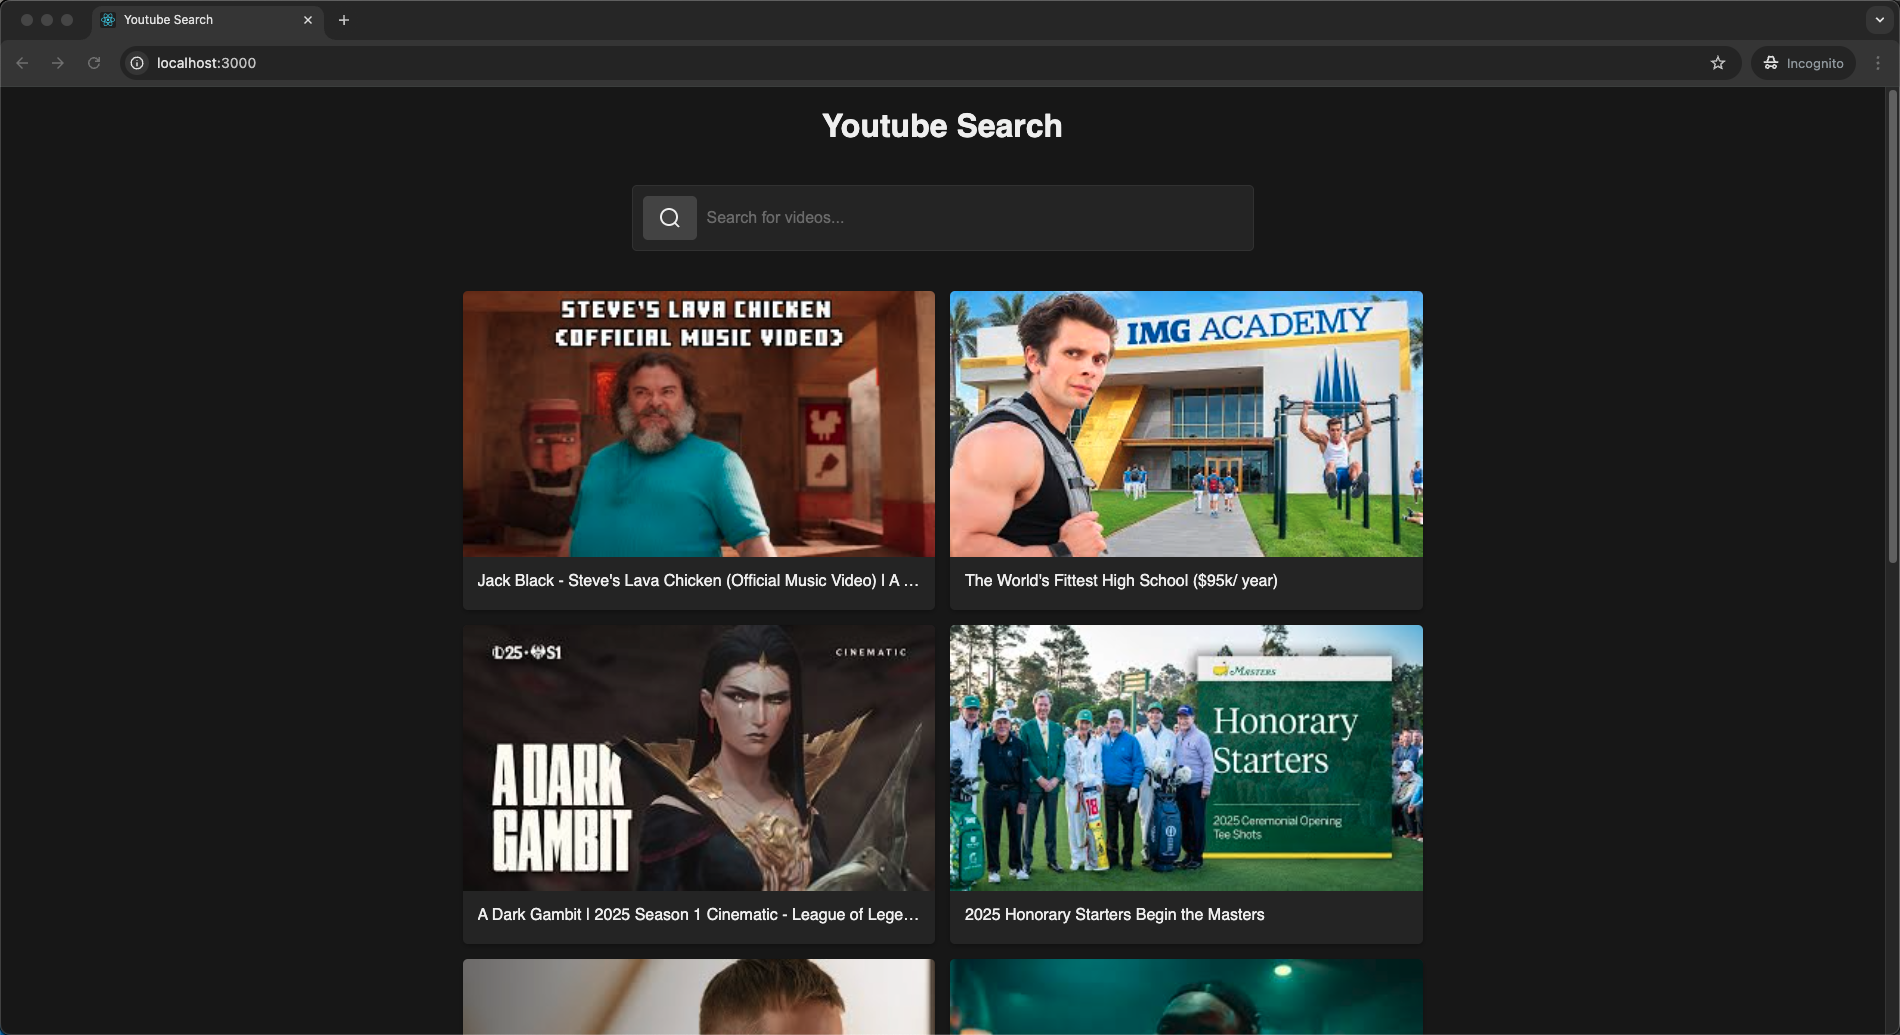
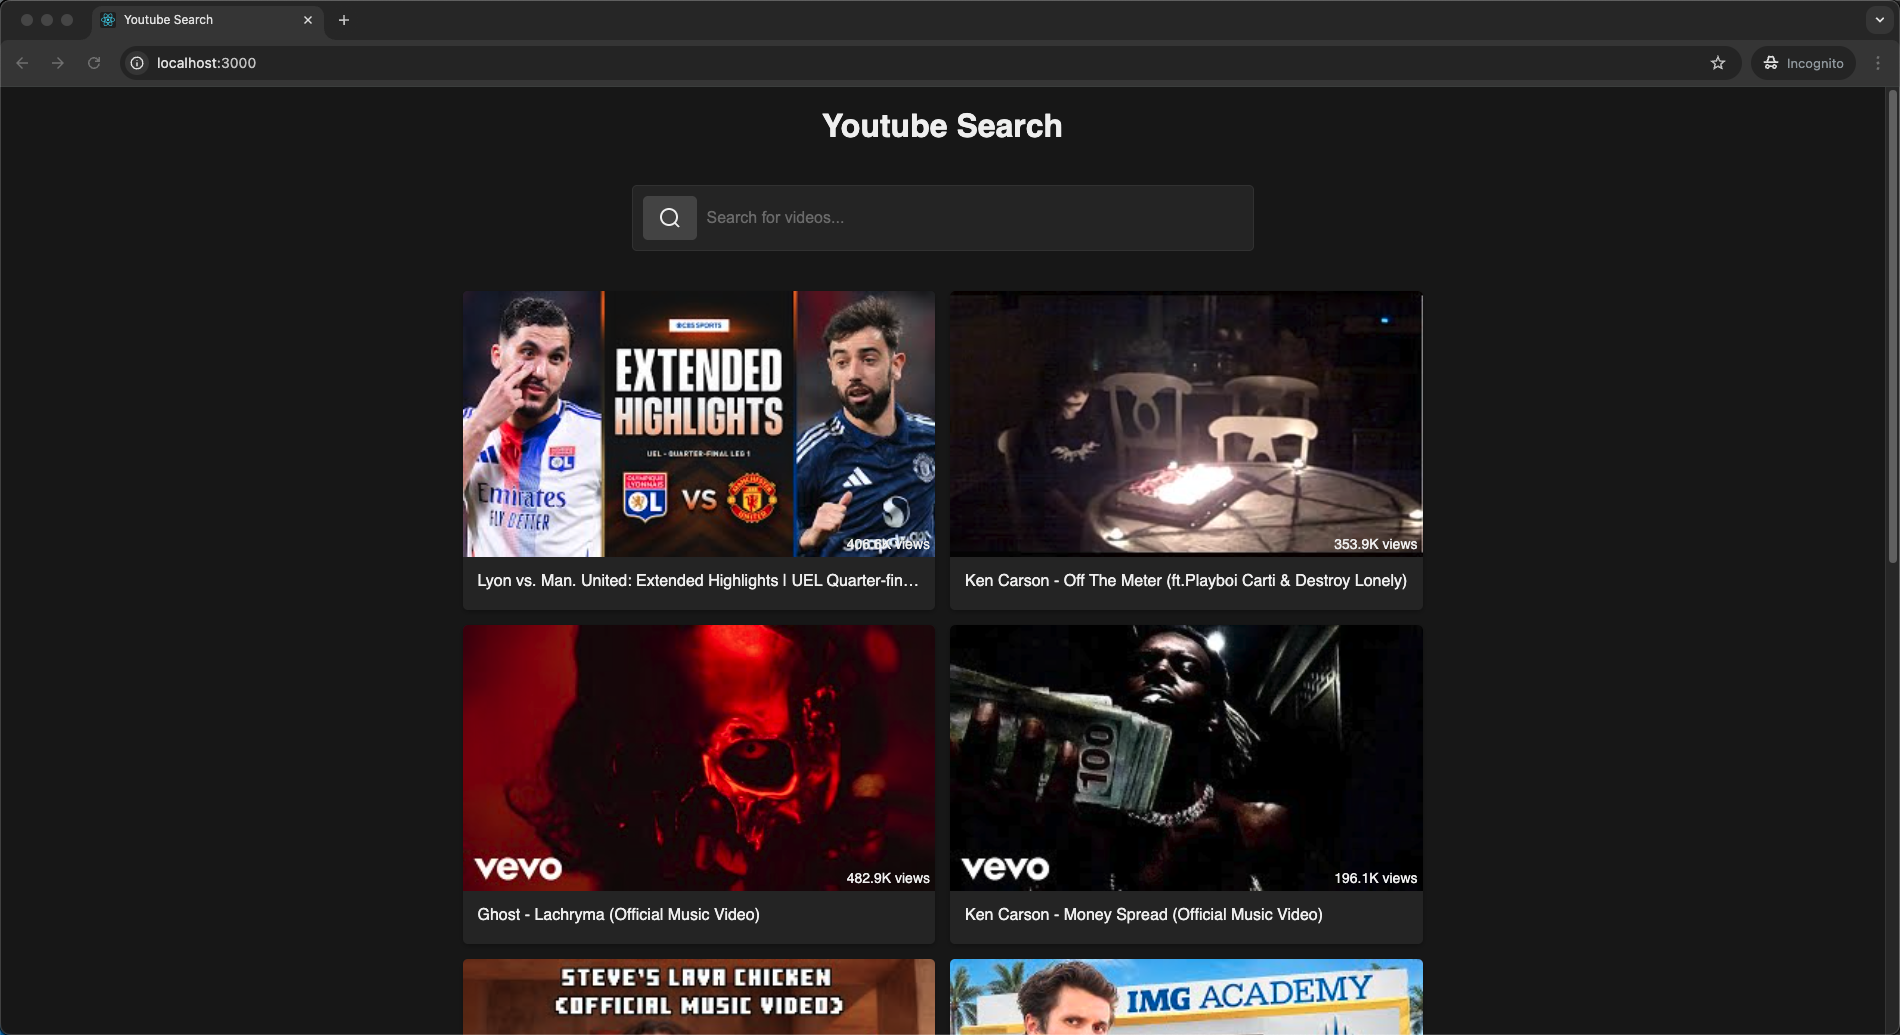
view count added

Changed region(s): [[0.2174, 0.2783, 0.7763, 0.8966], [0.2174, 0.9275, 0.7763, 1.0]]

diff --git a/src/components/VideoItem.js b/src/components/VideoItem.js
@@ -2,9 +2,12 @@ import React from 'react';
 import styles from './VideoItem.module.css';
 
 const VideoItem = React.memo(({ video = {} }) => {
-  const { snippet = {} } = video;
+  const { snippet = {}, statistics = {} } = video;
   const imageUrl = snippet.thumbnails?.medium?.url || '';
   const title = snippet.title || 'No title available';
+  const viewCount = statistics.viewCount
+    ? (statistics.viewCount / 1000).toFixed(1) + 'K'
+    : null;
 
   if (!imageUrl) {
     return <p data-testid='error-loading-video'>Error loading video</p>;
@@ -15,15 +18,18 @@ const VideoItem = React.memo(({ video = {} }) => {
       className={styles.videoCard}
       data-testid={`video-${video.id?.videoId || 'unknown'}`}
     >
-      <a
-        href={`https://www.youtube.com/watch?v=${video.id.videoId || video.id}`}
-        target='_blank'
-        rel='noopener noreferrer'
-      >
-        <div className={styles.videoImageContainer}>
+      <div className={styles.videoImageContainer}>
+        {viewCount && <div className={styles.viewCount}>{viewCount} views</div>}
+        <a
+          href={`https://www.youtube.com/watch?v=${
+            video.id.videoId || video.id
+          }`}
+          target='_blank'
+          rel='noopener noreferrer'
+        >
           <img src={imageUrl} alt={title} className={styles.videoImage} />
-        </div>
-      </a>
+        </a>
+      </div>
       <div className={styles.videoInfo}>
         <a
           className={styles.videoTitle}

diff --git a/src/services/youtubeApi.js b/src/services/youtubeApi.js
@@ -29,7 +29,7 @@ export async function searchVideos(query, pageToken = '') {
 }
 
 export async function getVideos(pageToken = '') {
-  const url = `${BASE_URL}/videos?part=snippet&chart=mostpopular&maxResults=${PAGE_SIZE}&key=${API_KEY}${
+  const url = `${BASE_URL}/videos?part=snippet,statistics&chart=mostpopular&maxResults=${PAGE_SIZE}&key=${API_KEY}${
     pageToken ? `&pageToken=${pageToken}` : ''
   }`;
   const response = await fetch(url);

diff --git a/src/components/VideoItem.module.css b/src/components/VideoItem.module.css
@@ -9,6 +9,7 @@
     width: 100%;
     aspect-ratio: 16 / 9;
     overflow: hidden;
+    position: relative;
 }
 
 .videoImage {
@@ -36,4 +37,13 @@
 
 .videoTitle:hover {
     text-decoration: underline;
+}
+
+.viewCount {
+    position: absolute;
+    bottom: 0;
+    right: 0;
+    font-size: 14px;
+    color: #f0f0f0;
+    padding: 5px;
 }
